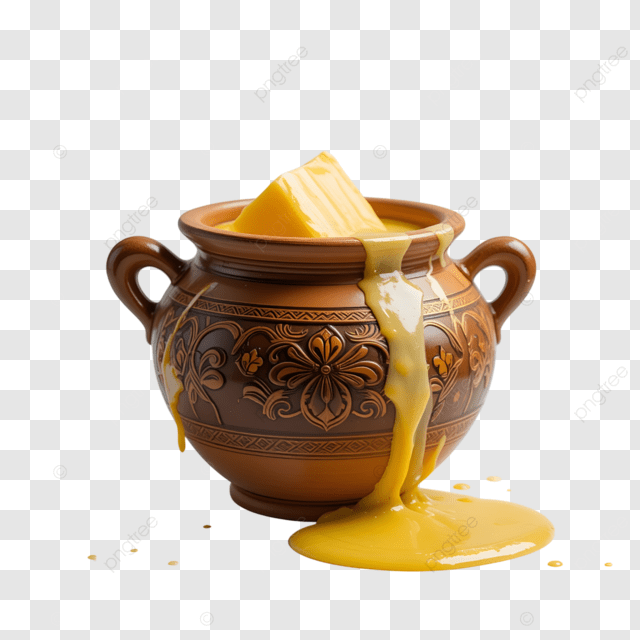
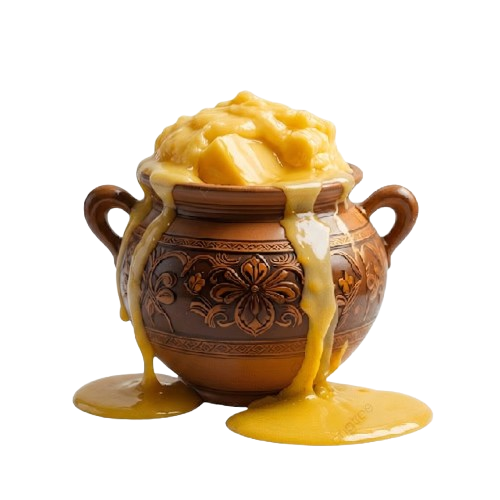
Change Instructions

diff --git a/src/App.jsx b/src/App.jsx
@@ -1,5 +1,6 @@
 import React, { useState, useEffect, useRef } from 'react';
 import Confetti from 'react-confetti';
+import { motion } from 'framer-motion';
 
 const INITIAL_GRID = [
   [0, 1, 1, 0, 0],
@@ -15,16 +16,16 @@ const BALARAM_POS = { r: 4, c: 4 };
 
 const App = () => {
   const [gameState, setGameState] = useState('MENU'); // 'MENU', 'PLAYING', 'VICTORY', 'DEFEAT'
-  
+
   const [grid, setGrid] = useState(INITIAL_GRID.map(row => [...row]));
   const [playerPos, setPlayerPos] = useState({ r: 0, c: 0 });
   const [movesLeft, setMovesLeft] = useState(INITIAL_MOVES);
   const [butterEaten, setButterEaten] = useState(0);
   const [hasReachedBalaram, setHasReachedBalaram] = useState(false);
   const [history, setHistory] = useState([]);
-  
+
   const [showInstructions, setShowInstructions] = useState(false);
-  
+
   const [isMusicMuted, setIsMusicMuted] = useState(false);
   const [isSfxMuted, setIsSfxMuted] = useState(false);
 
@@ -65,16 +66,16 @@ const App = () => {
       const audioCtx = new (window.AudioContext || window.webkitAudioContext)();
       const oscillator = audioCtx.createOscillator();
       const gainNode = audioCtx.createGain();
-      
+
       oscillator.type = type;
       oscillator.frequency.setValueAtTime(freq, audioCtx.currentTime);
-      
+
       gainNode.gain.setValueAtTime(0.1, audioCtx.currentTime);
       gainNode.gain.exponentialRampToValueAtTime(0.001, audioCtx.currentTime + duration);
-      
+
       oscillator.connect(gainNode);
       gainNode.connect(audioCtx.destination);
-      
+
       oscillator.start();
       oscillator.stop(audioCtx.currentTime + duration);
     } catch (e) {
@@ -135,7 +136,7 @@ const App = () => {
 
   const handleCellClick = (r, c) => {
     if (gameState !== 'PLAYING') return;
-    
+
     if (!isValidMove(r, c)) {
       playErrorSound();
       setInvalidCell({ r, c });
@@ -156,7 +157,7 @@ const App = () => {
 
     const newGrid = grid.map(row => [...row]);
     let newButterCount = butterEaten;
-    
+
     if (newGrid[r][c] === 1) {
       newGrid[r][c] = 0;
       newButterCount += 1;
@@ -169,7 +170,7 @@ const App = () => {
     setPlayerPos({ r, c });
     setMovesLeft(prev => prev - 1);
     setButterEaten(newButterCount);
-    
+
     if (r === BALARAM_POS.r && c === BALARAM_POS.c) {
       setHasReachedBalaram(true);
     }
@@ -178,13 +179,13 @@ const App = () => {
   const undo = () => {
     if (history.length === 0 || gameState !== 'PLAYING') return;
     const lastState = history[history.length - 1];
-    
+
     setGrid(lastState.grid);
     setPlayerPos(lastState.playerPos);
     setMovesLeft(lastState.movesLeft);
     setButterEaten(lastState.butterEaten);
     setHasReachedBalaram(lastState.hasReachedBalaram);
-    
+
     setHistory(prev => prev.slice(0, -1));
   };
 
@@ -202,23 +203,65 @@ const App = () => {
     setGameState('MENU');
   };
 
-  const InstructionsContent = () => (
-    <>
-      <h2>Story & Rules</h2>
-      <p>Each square on the grid represents a Gopi's home in Vrindavan. You play as Krishna.</p>
-      <ul style={{textAlign: 'left', margin: '10px 0 10px 20px'}}>
-        <li><strong>Movement:</strong> Krishna can move horizontally or vertically to an adjacent square, one step at a time.</li>
-        <li><strong>Objectives:</strong>
-          <ul>
-            <li>Eat all <strong>9 butter pots</strong> (🧈).</li>
-            <li>Meet <strong>Balaram</strong> at the far end of the village.</li>
-            <li>Krishna has to return back to his home.</li>
-          </ul>
-        </li>
-        <li><strong>Move Limit:</strong> Yashoda Mayya is sleeping, but she will wake up in exactly 16 moves. You must finish your tasks and return to the starting home exactly on your 16th move!</li>
-      </ul>
-    </>
-  );
+  const GameTutorial = () => {
+    const [currentSlide, setCurrentSlide] = useState(0);
+
+    const slides = [
+      {
+        video: "/videos/Movement.mp4",
+        text: <>Krishna can move Horizontally (➡️ ⬅️) or vertically (⬆️ ⬇️)</>
+      },
+      {
+        video: "/videos/Balaram.mp4",
+        text: <>Krishna should meet Balaram</>
+      },
+      {
+        video: "/videos/Home.mp4",
+        text: <>Krishna should return back Home in <strong style={{ color: '#ff3333' }}>16</strong> moves</>
+      },
+      {
+        video: "/videos/EatButter.mp4",
+        text: <>While meeting Balaram and coming back Home Krishna should eat all the butter.</>
+      }
+    ];
+
+    const nextSlide = () => setCurrentSlide((prev) => (prev + 1) % slides.length);
+    const prevSlide = () => setCurrentSlide((prev) => (prev - 1 + slides.length) % slides.length);
+
+    return (
+      <div className="tutorial-carousel" style={{ position: 'relative', textAlign: 'center', width: '100%', maxWidth: '400px', margin: '0 auto' }}>
+        <video 
+          key={slides[currentSlide].video}
+          src={slides[currentSlide].video} 
+          autoPlay 
+          loop 
+          muted 
+          playsInline 
+          style={{ width: '100%', borderRadius: '10px', marginBottom: '1rem', border: '2px solid var(--neon-cyan)', maxHeight: '300px', objectFit: 'contain' }} 
+        />
+        <div style={{ display: 'flex', alignItems: 'center', justifyContent: 'space-between', minHeight: '80px' }}>
+          <button onClick={prevSlide} className="cyber-btn icon-btn" style={{ fontSize: '1.2rem', padding: '0.5rem', minWidth: '40px' }}>{'<'}</button>
+          <p style={{ flex: 1, margin: '0 10px', fontSize: '1rem', fontWeight: 'bold' }}>
+            {slides[currentSlide].text}
+          </p>
+          <button onClick={nextSlide} className="cyber-btn icon-btn" style={{ fontSize: '1.2rem', padding: '0.5rem', minWidth: '40px' }}>{'>'}</button>
+        </div>
+        <div style={{ display: 'flex', justifyContent: 'center', gap: '8px', marginTop: '10px' }}>
+          {slides.map((_, idx) => (
+            <div 
+              key={idx} 
+              onClick={() => setCurrentSlide(idx)}
+              style={{ 
+                width: '12px', height: '12px', borderRadius: '50%', cursor: 'pointer',
+                backgroundColor: currentSlide === idx ? 'var(--neon-cyan)' : '#555',
+                transition: 'background-color 0.3s'
+              }} 
+            />
+          ))}
+        </div>
+      </div>
+    );
+  };
 
   useEffect(() => {
     const handleKeyDown = (e) => {
@@ -236,7 +279,7 @@ const App = () => {
         handleCellClick(newR, newC);
       }
     };
-    
+
     window.addEventListener('keydown', handleKeyDown);
     return () => window.removeEventListener('keydown', handleKeyDown);
   }, [gameState, playerPos, grid, butterEaten, movesLeft, hasReachedBalaram]);
@@ -248,15 +291,15 @@ const App = () => {
           <h1 className="sanskrit-title menu-title">चौराष्टकम् </h1>
           <p className="subtitle">The Butter Thief of Vrindavan</p>
         </div>
-        
+
         <div className="menu-image-wrapper">
           <img src="/images/KrishnaButter.png" alt="Krishna with Butter" className="menu-hero-img" />
         </div>
-        
+
         <div className="menu-instructions">
-          <InstructionsContent />
+          <GameTutorial />
         </div>
-        
+
         <button className="cyber-btn start-btn" onClick={restartGame}>
           Start Game
         </button>
@@ -295,7 +338,7 @@ const App = () => {
         else resultMessage = "You returned home and ate all the butter, but you didn't meet Balaram!";
       } else if (!hasButter) {
         resultTitle = 'You missed some butter';
-        resultImage = 'emoji:🧈';
+        resultImage = '/images/Butter.png';
         resultHeader = 'You missed some butter';
         resultMessage = "You returned home and met Balaram, but you didn't eat all the butter!";
       } else {
@@ -312,7 +355,7 @@ const App = () => {
         <h1 className="sanskrit-title menu-title" style={{ fontSize: '2.5rem', textAlign: 'center' }}>
           {resultTitle}
         </h1>
-        
+
         <div className="menu-image-wrapper" style={{ borderColor: gameState === 'VICTORY' ? '#33ff33' : '#ff3333', boxShadow: `0 0 25px ${gameState === 'VICTORY' ? '#33ff33' : '#ff3333'}` }}>
           {resultImage.startsWith('emoji:') ? (
             <span style={{ fontSize: '5rem', filter: 'drop-shadow(0 0 10px rgba(255,255,255,0.8))' }}>
@@ -327,7 +370,7 @@ const App = () => {
           <h2>{resultHeader}</h2>
           <p>{resultMessage}</p>
         </div>
-        
+
         <div style={{ display: 'flex', gap: '1rem' }}>
           <button className="cyber-btn" onClick={restartGame}>
             🔄 Play Again
@@ -346,8 +389,8 @@ const App = () => {
       {showInstructions && (
         <div className="modal-overlay">
           <div className="modal-content menu-instructions">
-            <InstructionsContent />
-            <button className="cyber-btn" onClick={() => setShowInstructions(false)} style={{marginTop: '1rem', width: '100%'}}>
+            <GameTutorial />
+            <button className="cyber-btn" onClick={() => setShowInstructions(false)} style={{ marginTop: '1rem', width: '100%' }}>
               Close
             </button>
           </div>
@@ -355,7 +398,7 @@ const App = () => {
       )}
 
       <div className="title-section">
-        <h1 className="sanskrit-title">🦚 चौराष्टकम् 🦚</h1>
+        <h1 className="sanskrit-title">🪷 चौराष्टकम् 🪷</h1>
         <p className="subtitle">The Butter Thief of Vrindavan</p>
       </div>
 
@@ -372,8 +415,8 @@ const App = () => {
             </span>
           </div>
           <div className="stat-row">
-            <span>Butter:</span>
-            <span className="butter-icon">🧈</span>
+            <span>Butters Eaten:</span>
+            <img src="/images/Butter.png" alt="Butter" className="butter-icon" style={{ width: '1.5rem', height: '1.5rem' }} />
             <span style={{ color: 'var(--neon-yellow)', fontWeight: 'bold' }}>
               {butterEaten}/{TARGET_BUTTER}
             </span>
@@ -383,6 +426,10 @@ const App = () => {
             <span>{hasReachedBalaram ? '✅' : '❌'}</span>
           </div>
         </div>
+      </div>
+
+      <div style={{ textAlign: 'center', marginBottom: '15px', fontSize: '1rem', fontWeight: 'bold', color: 'var(--neon-cyan)', letterSpacing: '0.5px', whiteSpace: 'nowrap' }}>
+        Meet Balaram & Return Home while eating all Butter
       </div>
 
       <div className="grid-container">
@@ -404,10 +451,16 @@ const App = () => {
                 {isHome && objectivesMet && !isPlayerHere && (
                   <div className="go-home-indicator">Come Back, Krishna!</div>
                 )}
-                {isPlayerHere && !(r === 0 && c === 0 && history.length > 0) && (
-                  <img src="/images/Krishna.jpg" alt="Krishna" className="character-img" />
+                {isPlayerHere && isBalaramHere && (
+                  <div style={{ position: 'relative', width: '100%', height: '100%' }}>
+                    <motion.img layoutId="krishna" transition={{ type: "spring", stiffness: 300, damping: 30 }} src="/images/Krishna.jpg" alt="Krishna" className="character-img" style={{ position: 'absolute', top: 0, left: 0, width: '65%', height: '65%', zIndex: 2 }} />
+                    <img src="/images/Balaram.png" alt="Balaram" className="character-img" style={{ position: 'absolute', bottom: 0, right: 0, width: '65%', height: '65%', zIndex: 1 }} />
+                  </div>
                 )}
-                {r === 0 && c === 0 && (!isPlayerHere || history.length > 0) && (
+                {isPlayerHere && !isBalaramHere && (
+                  <motion.img layoutId="krishna" transition={{ type: "spring", stiffness: 300, damping: 30 }} src="/images/Krishna.jpg" alt="Krishna" className="character-img" />
+                )}
+                {r === 0 && c === 0 && !isPlayerHere && (
                   <span style={{ fontSize: '2.5rem' }}>🏠</span>
                 )}
                 {!isPlayerHere && isBalaramHere && (
@@ -418,7 +471,7 @@ const App = () => {
                   </>
                 )}
                 {!isPlayerHere && !isBalaramHere && cell === 1 && (
-                  <span className="butter-item">🧈</span>
+                  <img src="/images/Butter.png" alt="Butter" className="butter-item" style={{ width: '85%', height: '85%', objectFit: 'contain' }} />
                 )}
               </div>
             );
@@ -431,7 +484,7 @@ const App = () => {
           <button className="cyber-btn icon-btn" onClick={goHome} title="Home">
             🏠
           </button>
-          
+
           <button className="cyber-btn icon-btn" onClick={() => setShowInstructions(true)} title="Instructions">
             📖
           </button>
@@ -443,10 +496,10 @@ const App = () => {
           <button className="cyber-btn icon-btn" onClick={restartGame} title="Restart Game">
             🔄
           </button>
-          
+
           <div className="audio-controls">
-            <button 
-              className="cyber-btn icon-btn" 
+            <button
+              className="cyber-btn icon-btn"
               onClick={() => setIsMusicMuted(!isMusicMuted)}
               title="Toggle Music"
             >
@@ -454,8 +507,8 @@ const App = () => {
                 🎵
               </div>
             </button>
-            <button 
-              className="cyber-btn icon-btn" 
+            <button
+              className="cyber-btn icon-btn"
               onClick={() => setIsSfxMuted(!isSfxMuted)}
               title="Toggle Sound Effects"
             >